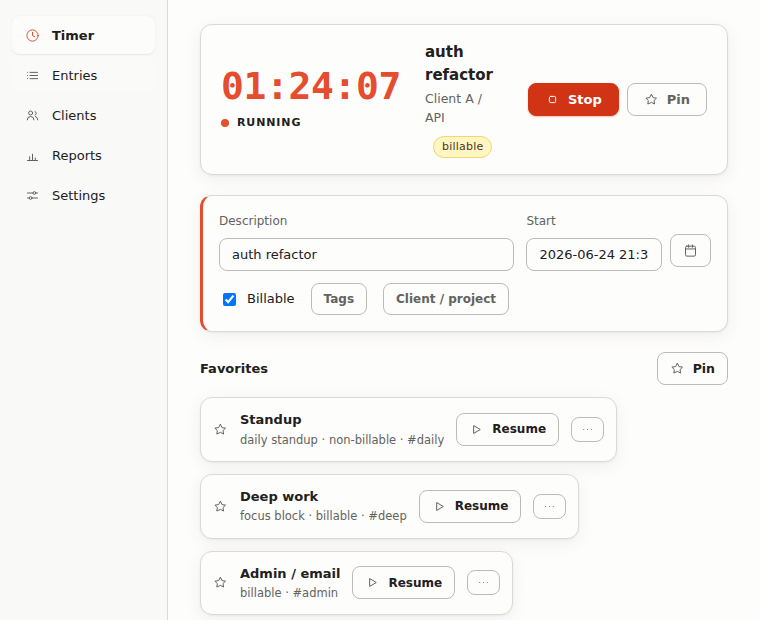
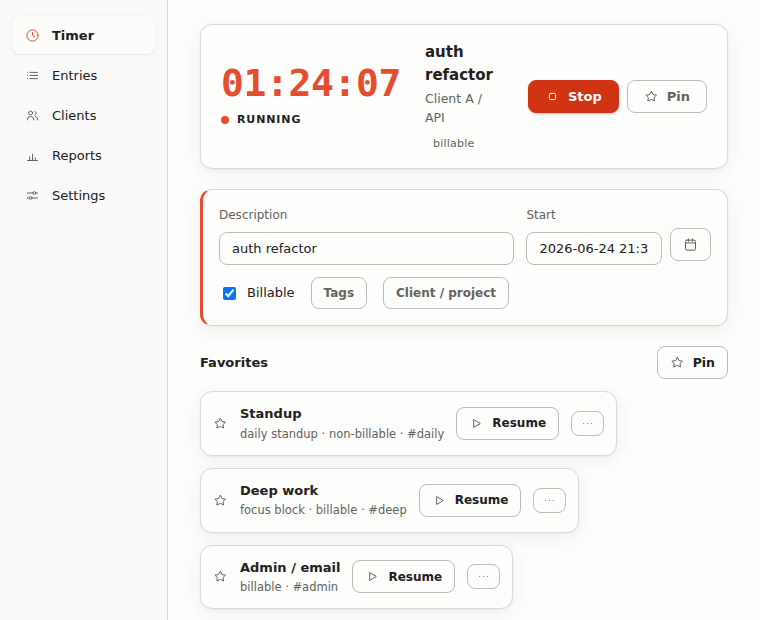
Stop painting `billable` in the warn palette (#160)
An attribute is not an advisory. The running Timer card emitted `billable`,
`non-billable` and `slept` through one `.flag` class, so the normal — and
overwhelmingly common — state of a tracked entry wore the amber chrome
design.html D04 reserves for a warn advisory. If the default state of every
entry is flagged, amber stops meaning anything, and the distinction the
two-palette system exists to make is gone (D14: a pill's colour is semantic,
never decorative).

`cardFlagsHtml()` now says billability quietly, as a `.attr` label in --muted —
the same neutral treatment `.entry .nonbill` already gives it on the entry row —
and leaves the --flag warn pill to `slept`, the only one of the three the warn
palette is for. The function's own comment guarded against these reading as an
accent fill and never noticed it had reached for warn instead; the replacement
names both palettes and which role takes which.

JUDGE TIMER_VIEW scores the DISTINCTION rather than one colour: a second page
over an open entry that is billable AND slept through reads both labels at once
— `slept` on the whole --flag triple (text, fill, rule) plus the pill radius,
`billable` on --muted with a transparent fill, no rule, no radius and no part of
that triple, neither of them the accent. Scored as a pair because the bug
painted BOTH amber, and read on its own an amber `billable` is a perfectly good
warn pill.

COLOUR_PAIRING's A05 probe read the billable word off `.timer-card .flag`. It
[…]

diff --git a/packages/gui/renderer/app.js b/packages/gui/renderer/app.js
@@ -655,16 +655,21 @@ function renderTimerStrip(running) {
   }
 }
 
-// The card's attribute row: the billable/non-billable badge plus a slept flag when the
-// running entry's machine slept. Monochrome --flag tokens only (the accent is reserved
-// for the running clock/state and the primary Stop button, §15); the billable badge reads
-// as a quiet label, not an accent fill.
+// The card's attribute row: the billable/non-billable ATTRIBUTE plus a slept FLAG when the
+// running entry's machine slept — two different kinds of thing, so two different palettes
+// (design.html D04/D14, issue #160). Billability is the entry's normal state, said quietly in
+// `.attr`/--muted; `slept` is the advisory, and the only one of the row the --flag warn palette
+// is for. Emitting all three through one `.flag` class painted every running card amber, which
+// is how the default case came to wear the colour reserved for "look at this" — the guard this
+// function's comment carried (a quiet label, not an accent fill) watched the accent and never
+// noticed it had reached for warn instead. Neither palette is the accent: that stays on the
+// running clock/state and the primary Stop button (§15).
 function cardFlagsHtml(e) {
   const flags = [];
   flags.push(
     e.billable
-      ? '<span class="flag" title="billable time">billable</span>'
-      : '<span class="flag" title="non-billable time">non-billable</span>',
+      ? '<span class="attr" title="billable time">billable</span>'
+      : '<span class="attr" title="non-billable time">non-billable</span>',
   );
   if (e.sleptThrough) flags.push('<span class="flag" title="machine slept during this entry">slept</span>');
   return flags.join('');

diff --git a/packages/gui/renderer/styles.css b/packages/gui/renderer/styles.css
@@ -942,7 +942,7 @@ textarea:focus-visible {
 .chip .chip-x { color: var(--muted); cursor: pointer; font-weight: 400; }
 .chip .chip-x:hover { color: var(--ink); }
 
-.flags { display: inline-flex; gap: 8px; margin-left: 8px; vertical-align: middle; }
+.flags { display: inline-flex; gap: 8px; margin-left: 8px; vertical-align: middle; align-items: center; }
 /* A flag is a worded warn pill (inclusivity — colour is never the only signal). */
 .flag {
   font-size: 11px;
@@ -952,6 +952,18 @@ textarea:focus-visible {
   border: 1px solid var(--flag-line);
   border-radius: 999px;
   padding: 2px 8px;
+}
+/* An ATTRIBUTE is not an advisory (design.html D04/D14, issue 160). `billable` is the normal,
+   overwhelmingly common state of a tracked entry; painting it in the --flag warn chrome beside
+   `slept` — the one thing in that row the warn palette is actually for — spends the amber on the
+   default case and collapses the distinction the two-palette system exists to make. So the
+   attribute states itself quietly in --muted (the same neutral treatment `.entry .nonbill`
+   already gives billability on the row), carries no pill chrome at all, and leaves --flag to the
+   flags beside it. Neither is the accent: that stays on the running clock/state and Stop (§15). */
+.attr {
+  font-size: 11px;
+  letter-spacing: 0.02em;
+  color: var(--muted);
 }
 /* §12 R06 (G5): the unified entry form in EDIT MODE — the SAME view-level card add mode uses
    (#entry-form-host), NOT crammed into the calendar event. It sits in the view flow with the

diff --git a/acceptance/criteria/judge-rubric.md b/acceptance/criteria/judge-rubric.md
@@ -30,7 +30,7 @@ The harness writes `acceptance/evidence/judge-report.json` and the screenshots i
 | `POPOVER_REJECT` | **A refused Stop/Start from the tray popover is surfaced in the popover's own announced region, never a silent no-op (§12 R21 — the tray twin of `WRITE_REJECTION_FEEDBACK` site d).** Driving the real popover renderer over the running snapshot with the strict-rejecting mock (`rejectWrites` — the same rejecting `toggle` the main-window site d uses), clicking **Stop** rejects and the popover **catches and displays**: the `#pop-warning` region is **visible, non-empty, and announced** (`role=status` + `aria-live`), carrying the reason ALONE ('stop time is before the entry started') — the mock rejects in **Electron's real `ipcRenderer.invoke` shape** (the invoke wrapper plus the thrown class, as the QA driver reproduces it), so the region is scored on **what the user reads**: the kernel exactly, with no "Error invoking remote method", no "StoreError", no `--flag` name (issue 138). Crucially the popover **stays operable**: `#toggle` is still present, enabled, and still reads **'Stop'** (the popover never pretends the refused stop landed — the running face persists), **Open Stint** stays reachable, and a **second** Stop attempt rejects again with the warning still shown (repeatable, not one-shot). Machine-scored facts: the announced non-empty `#pop-warning` after the refusal; the live, still-'Stop' toggle on the still-`.running` popover with `#open` present; and the persisting warning + live toggle after a second attempt. Fails if the popover swallows the rejection (no visible/announced message), flips to idle as if the stop landed, or wedges its controls. | §12 R21, §12 R01 | `popover-reject.png` |
 | `IN_WINDOW_TIMER` | The **full Active-Timer card lives in the Timer view**, while the **Entries view keeps only a compact strip** of it. In the **Timer view** (reached by clicking the Timer nav item) the full **Active-Timer card** mirrors `tt status`: a **live per-second count-up** (advancing +3s across a pinned-clock step, not reset), a **running state** indicator, the running entry's **description** + **client/project** label, and the primary **Stop** action (Stop is the view's `--accent-solid`-filled primary, design.html D11) — with **no Switch control** (Switch is removed, issue #34) and **no start affordance while running** (the start panel is idle-only, §12 R05 / issue #51 — asserted by `RUNNING_SINGLE_ACTION`); the card's accent is confined to the running clock + state indicator (mirroring the popover count) and the rest of the card chrome stays monochrome. On the **Entries view** the **compact `#timer-strip`** mirrors the running count-up + state + description and links to the Timer view, but carries **no full-panel Stop control**. Machine-scored facts: the Timer-view card is hosted inside the `data-view="timer"` section, its clock reads the derived count-up and advances +3s, its text carries the running description ('auth refactor') and client/project ('Client A / API'), and a Stop control is present and visible while running **with no `#timer-switch` element anywhere**; AND the Entries-view strip shows the running count-up ('01:24:07'), state ('running'), and description ('auth refactor') while exposing no `#timer-stop` (and no `#timer-switch`), its clock computing the design.html D06 compact Clock role — **24px, tabular numerals** (issue #141: the running count-up paints `--accent`, which carries text only on A01's ≥24px large-text branch). **Idle strip (STATES.md Entries × edge):** on an idle snapshot the Entries view **still paints the compact strip** in its idle face — `00:00:00` clock, state `idle`, empty description — never a vanished or stale-running strip. Would fail if the full panel stayed on Entries, the card/strip placement regressed, a `#timer-switch` reappeared, or the idle strip vanished/kept running data. | §12 R04, §12 R14 | `timer-view.png`, `main-timer.png`, `main-timer-idle.png` |
 | `CROSS_VIEW_FRESHNESS` | The Active-Timer card **mirrors `tt status` even after an Entries-toolbar control has been touched** (issue #50 regression, §12 R04). The renderer latches an entries-query flag once a range/filter/search control is used; the pre-fix `load()` early-returned into the entries-only query and never repainted the shared surfaces, so on the Timer view a Start click mutated the DB while the card stayed frozen on its idle face. Machine-scored facts, driven over the idle list fixture: **(a)** clicking the Entries toolbar's **Today** range preset records a `listEntries` query (the toolbar latched); **(b)** routing to the Timer view paints the idle card (state `idle`, primary reads `Start`, clock `00:00:00`); **(c)** clicking **Start** flips the card to running **in place, without any reload** (a window marker set before the click survives): state text `running`, the card carries `.running`, and — per the idle-only start panel (§12 R05 / issue #51) — the whole `#start-panel` hides (its one-tap `#toggle` with it) while the accented `#timer-stop` primary becomes visible; and **(d)** the count-up **advances +3s across a pinned-clock step** (live, not a one-off stale paint). Would fail if the card stayed idle/frozen after the toolbar was touched — the exact #50 symptom. | §12 R04 | `timer-cross-view.png` |
-| `TIMER_VIEW` | The **full Timer view (G5)** is the GUI core-entry surface, and the **running entry's start is adjusted through the inline START-ONLY picker disclosure (§05 R06 / §12 R14)**. Routing to the Timer view renders the **live clock** reading the **derived count-up** (now − startUtc − excludedSeconds) — it **advances +3s** across the pinned-clock step, **not reset**, and **keeps counting while the start is edited** (editing the open row never stops it) — with the **live-edit-running strip** present: a **raw text Start field** (`#le-start`, `type="text"` in localInputValue format — **no native `datetime-local`**, G1) and **no End-time input** anywhere. That value is **the string the user retypes**, not a serialization: it renders **space-separated, seconds always** (`2026-06-24 21:35:53`), matches **no `T`-separated pattern**, and its **`placeholder` describes that exact shape** (`YYYY-MM-DD HH:mm:ss` — before issue #159 the two agreed with neither each other nor the mockups). Both spellings still **parse**. Clicking the Start field's calendar affordance (`#le-start-pick`, `aria-expanded`) expands the picker **IN FLOW** into `#le-start-disc` below the field — **zero `.stp-backdrop` / dialog / modal chrome anywhere**, the container computes `position: static` — showing the **running block** with a **start drag grip ONLY** (`.stp-grip`; **no `.stp-resize` end grip, no end label, no end echo field** — the variant takes no end binding, so its write path is structurally incapable of producing an end) and the **computed future transparency fade** (`.stp-block.me.open` `mask-image` gradient) dissolving the block toward the future; the snapshot's other same-day entries paint **gray**. **Dragging the grip a known pixel delta advances the raw `#le-start` text LIVE by the snapped 5-min amount** (−30px on the 720px/24h track = −60min: the exact 21:35:53 → 20:35:00 — the field seeds the stored start EXACTLY, to the second (§12 R15 / issue #49); only the dragged grip snaps), and the **debounced commit sends an `edit` patch over IPC (`window.__EDITED__`) that carries `startUtc` but has NO `endUtc` key** — the open row stays open, its end **empty, never a synthetic "now"**. A visible **Stop** (the accent-solid-filled primary) is present while running, with **no `#timer-switch`** (issue #34). The card also **says** it is running (design.html **D05/A05**, issue #142): the word **`running`** is in the card's **rendered `innerText`** — painted by the state line, not merely held in a `display:none` node the way it was for as long as that bug shipped — and an **accent-filled dot** sits beside it, so the app's most important state never rides on the recoloured count-up alone. Machine-scored facts: the clock reads '01:24:07' and advances +3s, computing the design.html D06 full Clock role (**38px, tabular numerals, the `--num` stack**); the card's rendered `innerText` contains `running`, the `#timer-state` line is laid out and visible with that word as its text, and the `.tc-dot` beside it is visible with a computed background equal to the resolved `--accent` (the OUTCOME, replacing the presence-only `#timer-state.textContent` probe, which the shipped bug satisfied); the strip is present with no `#le-end` and a `type="text"` Start; the disclosure opens in flow (static position, no backdrop, no dialog role, toggle `aria-expanded=true`); the start grip is present with no end grip/label/echo; the running block's computed mask-image contains a gradient; ≥1 gray other entry paints; the Start field seeds the exact stored `2026-06-24 21:35:53`, carries the placeholder `YYYY-MM-DD HH:mm:ss`, **matches that placeholder's shape digit-for-digit**, and matches **no** `\d{4}-\d{2}-\d{2}T` pattern (issue #159), and the grip drag advances `#le-start` to `2026-06-24 20:35:00` live — still `T`-free; and the committed patch is exactly a `startUtc` ('2026-06-24T20:35:00.000Z') with **no `endUtc` key**. Would fail if the running state went back to speaking in colour alone (the word hidden, the dot dropped or left unfilled), a modal/backdrop reappeared on this surface, an end affordance or value materialized, the future fade were absent, the drag stopped writing the text field live (or off-snap), the count-up reset, the patch ever carried `endUtc`, or the field drifted back to a wire-shaped value its own placeholder does not describe. | §12 R14, §05 R06 | `timer-view-full.png` |
+| `TIMER_VIEW` | The **full Timer view (G5)** is the GUI core-entry surface, and the **running entry's start is adjusted through the inline START-ONLY picker disclosure (§05 R06 / §12 R14)**. Routing to the Timer view renders the **live clock** reading the **derived count-up** (now − startUtc − excludedSeconds) — it **advances +3s** across the pinned-clock step, **not reset**, and **keeps counting while the start is edited** (editing the open row never stops it) — with the **live-edit-running strip** present: a **raw text Start field** (`#le-start`, `type="text"` in localInputValue format — **no native `datetime-local`**, G1) and **no End-time input** anywhere. That value is **the string the user retypes**, not a serialization: it renders **space-separated, seconds always** (`2026-06-24 21:35:53`), matches **no `T`-separated pattern**, and its **`placeholder` describes that exact shape** (`YYYY-MM-DD HH:mm:ss` — before issue #159 the two agreed with neither each other nor the mockups). Both spellings still **parse**. Clicking the Start field's calendar affordance (`#le-start-pick`, `aria-expanded`) expands the picker **IN FLOW** into `#le-start-disc` below the field — **zero `.stp-backdrop` / dialog / modal chrome anywhere**, the container computes `position: static` — showing the **running block** with a **start drag grip ONLY** (`.stp-grip`; **no `.stp-resize` end grip, no end label, no end echo field** — the variant takes no end binding, so its write path is structurally incapable of producing an end) and the **computed future transparency fade** (`.stp-block.me.open` `mask-image` gradient) dissolving the block toward the future; the snapshot's other same-day entries paint **gray**. **Dragging the grip a known pixel delta advances the raw `#le-start` text LIVE by the snapped 5-min amount** (−30px on the 720px/24h track = −60min: the exact 21:35:53 → 20:35:00 — the field seeds the stored start EXACTLY, to the second (§12 R15 / issue #49); only the dragged grip snaps), and the **debounced commit sends an `edit` patch over IPC (`window.__EDITED__`) that carries `startUtc` but has NO `endUtc` key** — the open row stays open, its end **empty, never a synthetic "now"**. A visible **Stop** (the accent-solid-filled primary) is present while running, with **no `#timer-switch`** (issue #34). The card also **says** it is running (design.html **D05/A05**, issue #142): the word **`running`** is in the card's **rendered `innerText`** — painted by the state line, not merely held in a `display:none` node the way it was for as long as that bug shipped — and an **accent-filled dot** sits beside it, so the app's most important state never rides on the recoloured count-up alone. Machine-scored facts: the clock reads '01:24:07' and advances +3s, computing the design.html D06 full Clock role (**38px, tabular numerals, the `--num` stack**); the card's rendered `innerText` contains `running`, the `#timer-state` line is laid out and visible with that word as its text, and the `.tc-dot` beside it is visible with a computed background equal to the resolved `--accent` (the OUTCOME, replacing the presence-only `#timer-state.textContent` probe, which the shipped bug satisfied); the strip is present with no `#le-end` and a `type="text"` Start; the disclosure opens in flow (static position, no backdrop, no dialog role, toggle `aria-expanded=true`); the start grip is present with no end grip/label/echo; the running block's computed mask-image contains a gradient; ≥1 gray other entry paints; the Start field seeds the exact stored `2026-06-24 21:35:53`, carries the placeholder `YYYY-MM-DD HH:mm:ss`, **matches that placeholder's shape digit-for-digit**, and matches **no** `\d{4}-\d{2}-\d{2}T` pattern (issue #159), and the grip drag advances `#le-start` to `2026-06-24 20:35:00` live — still `T`-free; and the committed patch is exactly a `startUtc` ('2026-06-24T20:35:00.000Z') with **no `endUtc` key**. The card's **attribute row also keeps an attribute distinct from an advisory** (design.html **D04/D14**, issue #160): a second page over an open entry that is **billable AND slept through** paints both roles at once, and **`slept` takes the whole `--flag` warn triple** (text, fill and rule, on the 999px pill) while **`billable` — the normal, overwhelmingly common state of a tracked entry — stays the quiet `--muted` label**, with a transparent fill, no rule, no pill radius and **no part of that triple**; neither carries the accent, and both are still **worded**. Scored as a **pair**, because until #160 all three labels shipped through one `.flag` class and every running card wore the amber reserved for "look at this" — read one colour at a time, an amber `billable` is a perfectly good warn pill. Would fail if the running state went back to speaking in colour alone (the word hidden, the dot dropped or left unfilled), a modal/backdrop reappeared on this surface, an end affordance or value materialized, the future fade were absent, the drag stopped writing the text field live (or off-snap), the count-up reset, the patch ever carried `endUtc`, the field drifted back to a wire-shaped value its own placeholder does not describe, or `billable` reclaimed any part of the warn triple (or `slept` lost it). | §12 R14, §05 R06 | `timer-view-full.png`, `timer-card-attr-vs-flag.png` |
 | `FUTURE_START_GUARD` | A **mistyped FUTURE start on the running entry is REFUSED and surfaced where it was typed**, never the silent wedge issue #61 caused ("Stop appears dead"). Driving the real renderer over the **future-start guard mock** (the `edit` IPC rejects a start landing **after now** exactly as core's `edit()` does, §05 R06 / §03), typing a **next-day instant** into the running Start field (`#le-start`) and letting the **debounced live-edit commit** fire raises the **announced** (`role=status` + `aria-live`) **`#timer-warning`** region — genuinely on-screen in the active Timer view — with the reason **and only the reason** ("start time is in the future" — the mock rejects in Electron's real wrapped shape, so a painted invoke wrapper / exception class / `--flag` fails the item, issue 138), and **records NOTHING** (`window.__EDITED__` stays null). Crucially **no wedge**: the **live-edit strip stays present** and **Stop is still there** (the count-up never froze). **Correcting** the start to a valid **past** instant then commits cleanly — the warning **clears** (via `load()` → `clearOverlapBanner()`) and `window.__EDITED__` carries the corrected `startUtc` with **no `endUtc` key** (the open row stays open) — and clicking **Stop** flips the status to **idle**: the timer was stoppable all along. Machine-scored facts: the future-start commit shows an announced, non-empty `#timer-warning` while `__EDITED__` stays null and the strip + Stop persist; the corrected commit clears the warning and records `startUtc` '2026-06-24T22:00:00.000Z' with no `endUtc`; and Stop flips `status.running` to false. Would fail if the refused live edit were silently swallowed (no visible warning), if the future start were recorded, if the strip/Stop vanished (a wedge), or if correcting-then-stopping did not work. Builds on the WRITE_REJECTION_FEEDBACK precedent (the same #65 `#timer-warning` region). | §05 R06, §05 R01, §03, §16, §12 R21 | `timer-future-start-reject.png` |
 | `FAVORITES_RAIL` | The Timer view's **pinned favorites rail** renders **one row per `FavoriteView`** (name + client/project/billable meta), each with a **one-click Resume** that fires `window.stint.startFavorite({name})` **exactly once**, plus a **Pin-as-favorite** affordance that fires `window.stint.pinFavorite` and a **kebab** exposing **rename / unpin** (`renameFavorite` / `unpinFavorite`). The **empty-favorites state** instructs ('pin a favorite' / mentions `tt fav`). The rail chrome is **monochrome** (accent reserved for the primary action), and `window.stint` exposes a **callable method for each of the five favorite channels** (`listFavorites` / `pinFavorite` / `renameFavorite` / `unpinFavorite` / `startFavorite`) — the PARITY_REACH extension for favorites, so the rail is the reachable GUI surface for the `tt fav` family (§17 R14). Machine-scored facts: three seeded rows (Standup / Deep work / Admin) each with a Resume + kebab; a Pin affordance present; clicking the first Resume fires `startFavorite` exactly once with `{name:'Standup'}`; all five favorite channels callable on `window.stint`; **the pin, rename and unpin flows are DRIVEN to completion** (STATES.md Timer × edge; issue #52 — Electron's renderer implements no `window.prompt`): the inline pin field committed on Enter fires `pinFavorite` with the typed name + the open-row template and the new chip lands in the rail; kebab → Rename through the same inline field fires `renameFavorite` and the chip's name changes; kebab → **Unpin** fires `unpinFavorite` **exactly once** with the chip's ref and the chip **leaves the rail** (back to the three seeded rows); and the empty variant paints the instructive empty state ('pin' + 'tt fav'). | §05 R09, §05 R10, §12 R14, §17 R14 | `timer-favorites.png`, `timer-favorites-empty.png` |
 | `ACCENT_DISCIPLINE` | The **accent family** — `--accent` (tomato·9, the non-text signal) and `--accent-solid` (tomato·11, the filled-primary background) — appears **only on the sanctioned surfaces**: each view's single `.primary` action (whose **fill is `--accent-solid`**, never raw `--accent` — white-on-tomato·9 is the prohibited D04 pair), the running-state surfaces (card / strip / popover / live-edit), the picker "me" block's **drag grips**, and the active nav item's **icon** (D12 — never the chip or label). The rest of the chrome is monochrome warm grays. The harness captures a whole-chrome computed-style scan over **both** family colours as evidence; the aesthetic judgement is scored over the screenshot. | design.html D04/D11 · §15 | `main-running.png` |

diff --git a/acceptance/criteria/COVERAGE.md b/acceptance/criteria/COVERAGE.md
@@ -1041,7 +1041,24 @@ the presence-only `#timer-state.textContent` probe that the shipped bug
 satisfied. JUDGE `COLOUR_PAIRING` , the A05 scene, was fooled by the same
 presence-only read and now scores each running surface as RENDERED: the strip
 pairs by its visible dot (D05 takes a word OR an icon), the card by a visible
-word AND a visible dot. **The card stays fresh across views (issue #50):** JUDGE
+word AND a visible dot. **An attribute is not an advisory (design.html D04/D14,
+issue #160):** the card's attribute row carries two different kinds of thing, so
+it paints them in two palettes — `slept` is the advisory and keeps the `--flag`
+warn pill, while `billable` /`non-billable` is the entry's normal state and reads
+as the quiet `.attr` /`--muted` label the entry row already gives billability
+(`.entry .nonbill`). Shipping all three through one `.flag` class painted the
+default state of every running entry in the colour reserved for "look at this",
+so amber stopped meaning anything — and the function's own comment guarded
+against these reading as an accent fill without ever noticing it had reached for
+warn instead. JUDGE `TIMER_VIEW` scores the DISTINCTION rather than one colour:
+a second page over an open entry that is billable AND slept through reads both
+labels at once — `slept` on the whole `--flag` triple (text, fill, rule) plus
+the pill radius, `billable` on `--muted` with a transparent fill, no rule, no
+radius and no part of that triple, neither of them the accent. Scored as a pair
+because the bug painted BOTH amber, and read on its own an amber `billable` is a
+perfectly good warn pill. `COLOUR_PAIRING` keeps the other half — that
+billability is SAID at all — and reads the attribute row by position, so a
+palette move can never mute the word. **The card stays fresh across views (issue #50):** JUDGE
 `CROSS_VIEW_FRESHNESS` (`packages/gui/judge/`, `timer-cross-view.png` — after an
 Entries-toolbar control is touched (the Today preset latches the renderer's
 entries query), routing to the Timer view and clicking Start flips the card to

diff --git a/acceptance/criteria/STATES.md b/acceptance/criteria/STATES.md
@@ -20,6 +20,7 @@ waiver with a reason; a new view or state added without a row here is a coverage
 |---|---|---|---|
 | **Ideal** — idle card | 00:00:00 clock, the worded state (`idle`) with a faint dot beside it, Start primary, idle-only start panel visible | JUDGE `START_FORM`, `RUNNING_SINGLE_ACTION` (idle snapshot) — `main-start-form.png` | |
 | **Ideal** — running card | Live count-up, the worded state (`running`) with an accent run dot beside it, description, client/project, accented Stop, no Switch | JUDGE `TIMER_VIEW`, `IN_WINDOW_TIMER` — `timer-view.png`, `timer-view-full.png` | The word + dot are the D05/A05 pairing that keeps the state off colour alone — hidden until issue #142 |
+| **Edge** — running card attribute row (billable + slept) | `billable` is the quiet `--muted` attribute label; the `slept` advisory beside it keeps the `--flag` warn pill — two kinds of thing, two palettes (D04/D14) | JUDGE `TIMER_VIEW` — `timer-card-attr-vs-flag.png` | All three labels shipped as one amber `.flag` pill until issue #160, so every running card wore the warn palette |
 | **Error** — refused Stop (`#timer-warning`) | Announced region names the refusal — the reason alone, no IPC wrapper / exception class / CLI flag (issue 138); strip/Stop stay live, no wedge | JUDGE `WRITE_REJECTION_FEEDBACK` (site d), `FUTURE_START_GUARD` — `main-edit-reject.png`, `timer-future-start-reject.png` | |
 | **Edge** — live-edit strip (running only) | Raw text `#le-start`, no `#le-end`, count-up keeps advancing while edited | JUDGE `TIMER_VIEW` — `timer-view-full.png` | |
 | **Edge** — inline start-only picker disclosure | Opens in flow under the field, start grip only, future-fade mask | JUDGE `TIMER_VIEW` — `timer-view-full.png` | |
